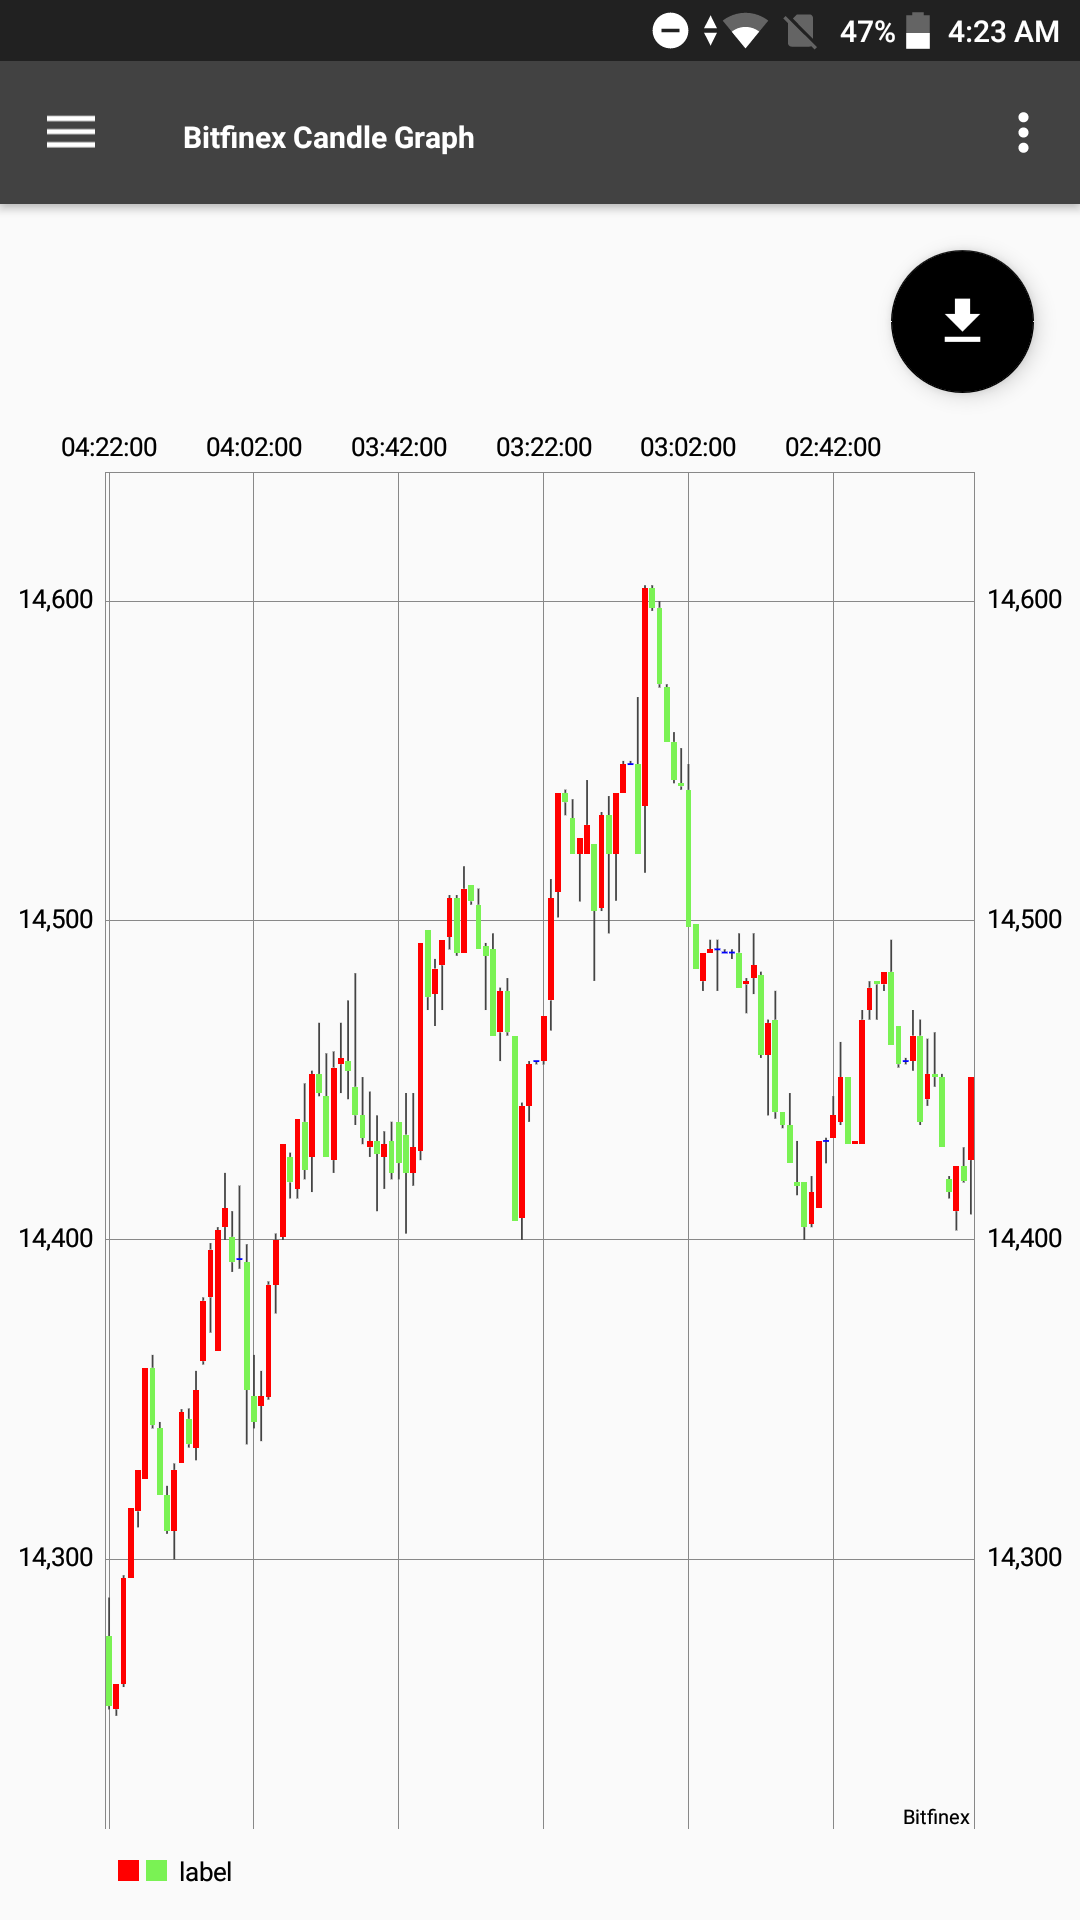
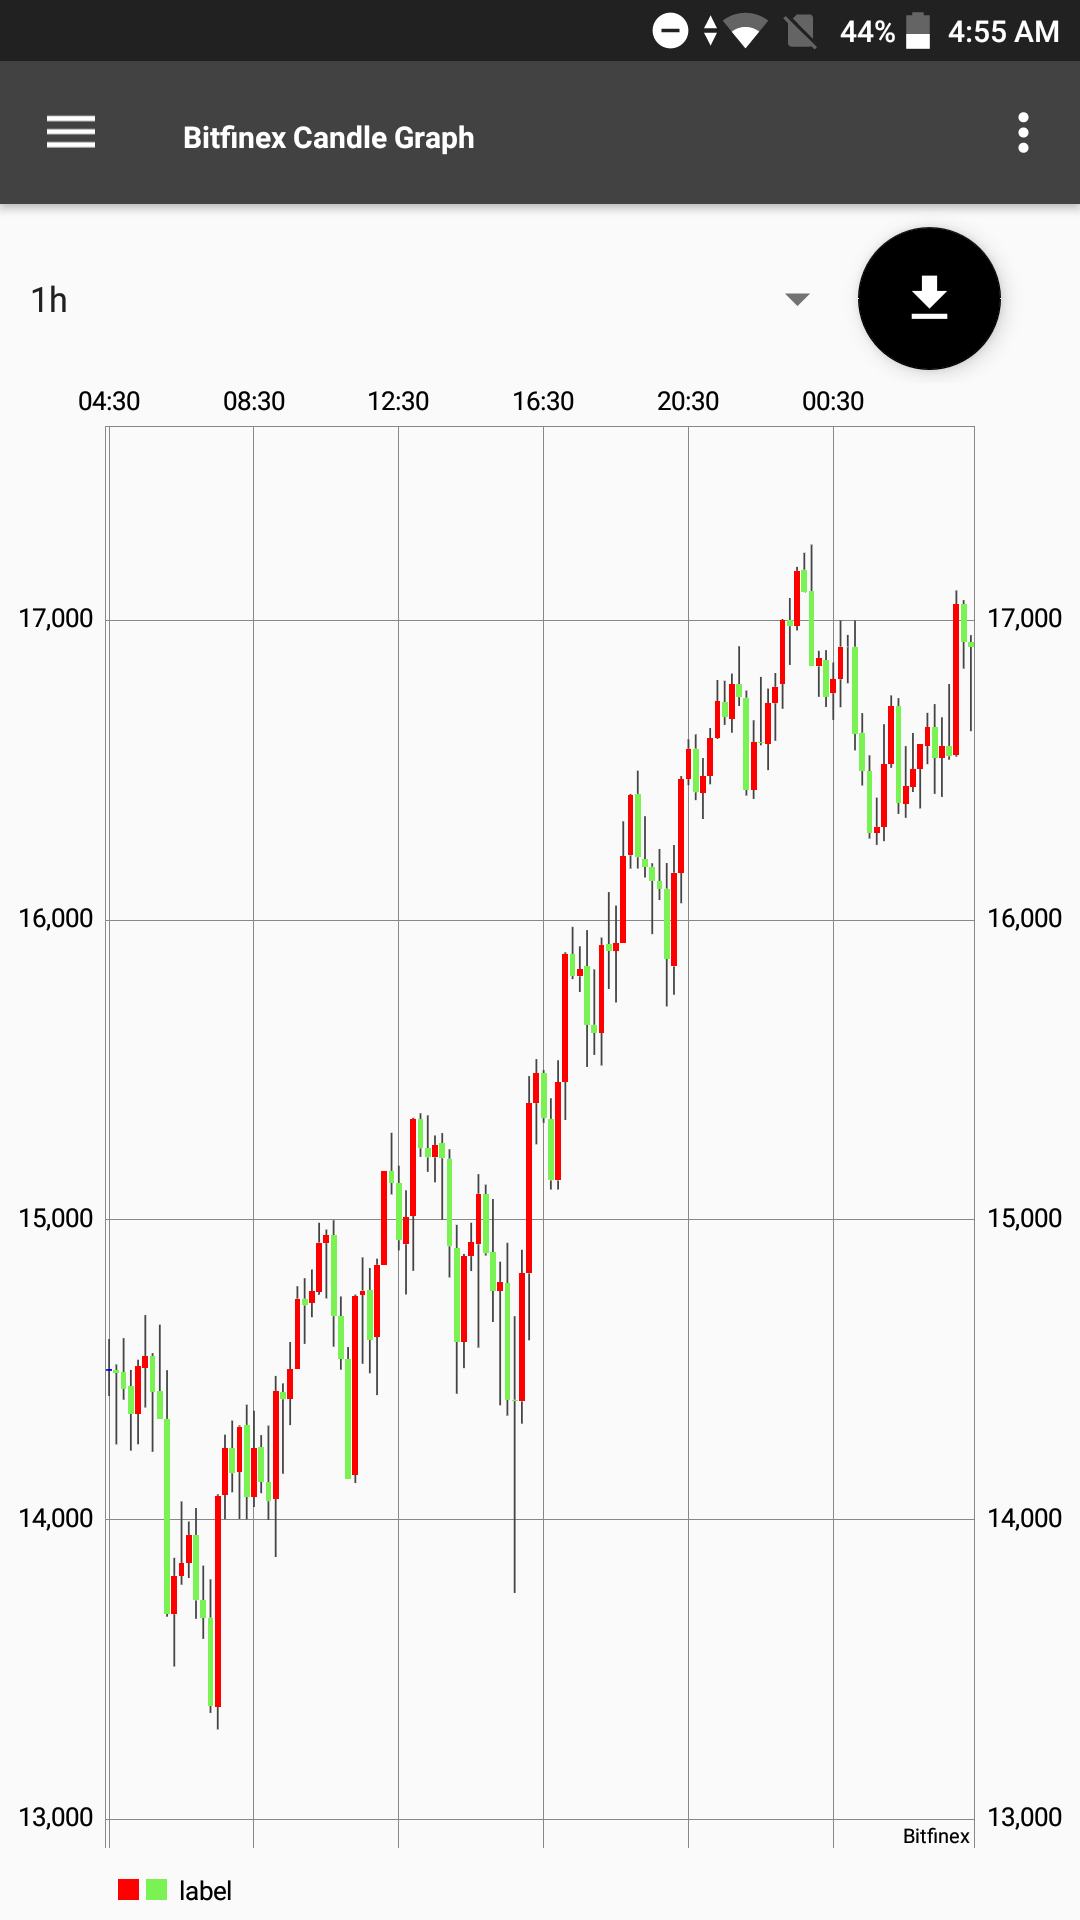
time frame selection for candle sticks chart. change date format according to time frame selected. Update screen shots.

diff --git a/app/src/main/java/com/androidevlinux/percy/UTXO/ui/fragment/charts/BitfinexCandleChartFragment.java b/app/src/main/java/com/androidevlinux/percy/UTXO/ui/fragment/charts/BitfinexCandleChartFragment.java
@@ -11,6 +11,7 @@ import android.support.annotation.NonNull;
 import android.support.annotation.Nullable;
 import android.support.design.widget.FloatingActionButton;
 import android.support.v7.preference.PreferenceManager;
+import android.support.v7.widget.AppCompatSpinner;
 import android.view.LayoutInflater;
 import android.view.View;
 import android.view.ViewGroup;
@@ -56,6 +57,8 @@ public class BitfinexCandleChartFragment extends BaseFragment {
     @BindView(R.id.candleChart)
     CandleStickChart candleChart;
     Unbinder unbinder;
+    @BindView(R.id.spinner_TimeFrame)
+    AppCompatSpinner spinnerTimeFrame;
     private Activity mActivity;
     ArrayList<CandleEntry> entries = new ArrayList<>();
     ArrayList<String> xValues = new ArrayList<>();
@@ -118,7 +121,7 @@ public class BitfinexCandleChartFragment extends BaseFragment {
     }
 
     private void getBitfinexData() {
-        apiManager.getBitfinexData(new Callback<ResponseBody>() {
+        apiManager.getBitfinexData(spinnerTimeFrame.getSelectedItem().toString(), new Callback<ResponseBody>() {
             @Override
             public void onResponse(@NonNull Call<ResponseBody> call, @NonNull Response<ResponseBody> response) {
                 Gson gson = new Gson();
@@ -131,7 +134,7 @@ public class BitfinexCandleChartFragment extends BaseFragment {
                     candleChart.clear();
                     candleChart.invalidate();
                     int count = -1;
-                    for (BigDecimal[] s : newMap){
+                    for (BigDecimal[] s : newMap) {
                         count += 1;
                         entries.add(new CandleEntry(count, Float.valueOf(String.valueOf(s[3])), Float.valueOf(String.valueOf(s[4])), Float.valueOf(String.valueOf(s[1])), Float.valueOf(String.valueOf(s[2]))));
                         CandleDataSet dataset = new CandleDataSet(entries, "label");
@@ -145,7 +148,14 @@ public class BitfinexCandleChartFragment extends BaseFragment {
                         dataset.setNeutralColor(Color.BLUE);
                         dataset.setValueTextColor(Color.RED);
                         Date date = new Date(Long.valueOf(String.valueOf(s[0])));
-                        SimpleDateFormat sdf = new SimpleDateFormat("HH:mm:ss", Locale.ENGLISH);
+                        SimpleDateFormat sdf;
+                        if (spinnerTimeFrame.getSelectedItem().toString().equals("7D") ||
+                                spinnerTimeFrame.getSelectedItem().toString().equals("14D") ||
+                                spinnerTimeFrame.getSelectedItem().toString().equals("1M")) {
+                            sdf = new SimpleDateFormat("yyyy-MM-dd", Locale.ENGLISH);
+                        } else {
+                            sdf = new SimpleDateFormat("HH:mm", Locale.ENGLISH);
+                        }
                         sdf.setTimeZone(TimeZone.getDefault());
                         String formattedDate = sdf.format(date);
 

diff --git a/app/src/main/java/com/androidevlinux/percy/UTXO/data/network/apis/BitfinexAPI.java b/app/src/main/java/com/androidevlinux/percy/UTXO/data/network/apis/BitfinexAPI.java
@@ -5,6 +5,7 @@ import com.androidevlinux.percy.UTXO.data.models.bitfinex.BitfinexPubTickerRespo
 import okhttp3.ResponseBody;
 import retrofit2.Call;
 import retrofit2.http.GET;
+import retrofit2.http.Path;
 
 /**
  * Created by percy on 22/11/17.
@@ -15,6 +16,6 @@ public interface BitfinexAPI {
     @GET("/v1/pubticker/btcusd/")
     Call<BitfinexPubTickerResponseBean> getBitfinexPubTicker();
 
-    @GET("/v2/candles/trade:1m:tBTCUSD/hist/")
-    Call<ResponseBody> getBitfinexData();
+    @GET("/v2/candles/trade:{time}:tBTCUSD/hist/")
+    Call<ResponseBody> getBitfinexData(@Path(value = "time", encoded = true) String time);
 }

diff --git a/app/src/main/java/com/androidevlinux/percy/UTXO/data/network/apis/AbstractBaseApi.java b/app/src/main/java/com/androidevlinux/percy/UTXO/data/network/apis/AbstractBaseApi.java
@@ -40,7 +40,7 @@ public abstract class AbstractBaseApi<T> {
     final T getClient(Class<T> t) {
         if (retrofit == null) {
             // set your desired log level
-            logging.setLevel(HttpLoggingInterceptor.Level.BODY);
+            logging.setLevel(HttpLoggingInterceptor.Level.NONE);
 
             OkHttpClient clientOkHttp = new OkHttpClient.Builder()
                     .connectTimeout(connectTimeOut, TimeUnit.SECONDS)

diff --git a/app/src/main/java/com/androidevlinux/percy/UTXO/data/network/ApiManager.java b/app/src/main/java/com/androidevlinux/percy/UTXO/data/network/ApiManager.java
@@ -45,8 +45,8 @@ public class ApiManager {
         bitfinexApiImpl.getBitfinexPubTicker(callback);
     }
 
-    public void getBitfinexData(Callback<ResponseBody> callback) {
-        bitfinexApiImpl.getBitfinexData(callback);
+    public void getBitfinexData(String time, Callback<ResponseBody> callback) {
+        bitfinexApiImpl.getBitfinexData(time, callback);
     }
 
     public void getBitstampTicker(Callback<JsonObject> callback) {

diff --git a/app/src/main/java/com/androidevlinux/percy/UTXO/data/network/apis/BitfinexApiImpl.java b/app/src/main/java/com/androidevlinux/percy/UTXO/data/network/apis/BitfinexApiImpl.java
@@ -29,7 +29,7 @@ public class BitfinexApiImpl extends AbstractBaseApi<BitfinexAPI> {
         bitfinexAPI.getBitfinexPubTicker().enqueue(callback);
     }
 
-    public void getBitfinexData(Callback<ResponseBody> callback){
-        bitfinexAPI.getBitfinexData().enqueue(callback);
+    public void getBitfinexData(String time, Callback<ResponseBody> callback){
+        bitfinexAPI.getBitfinexData(time).enqueue(callback);
     }
 }
